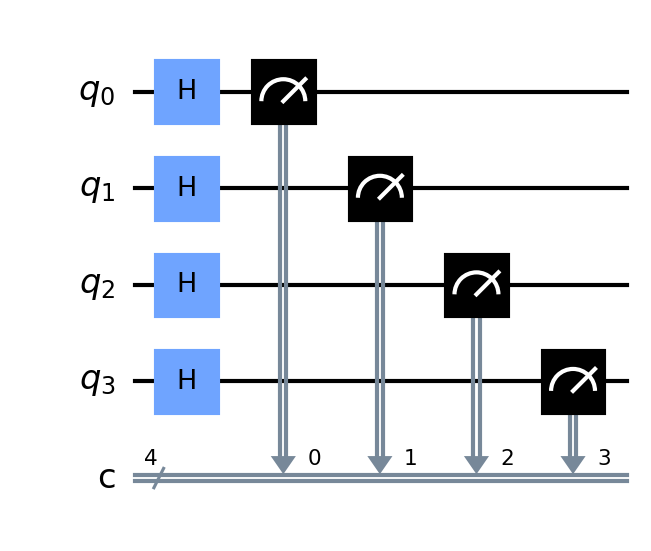
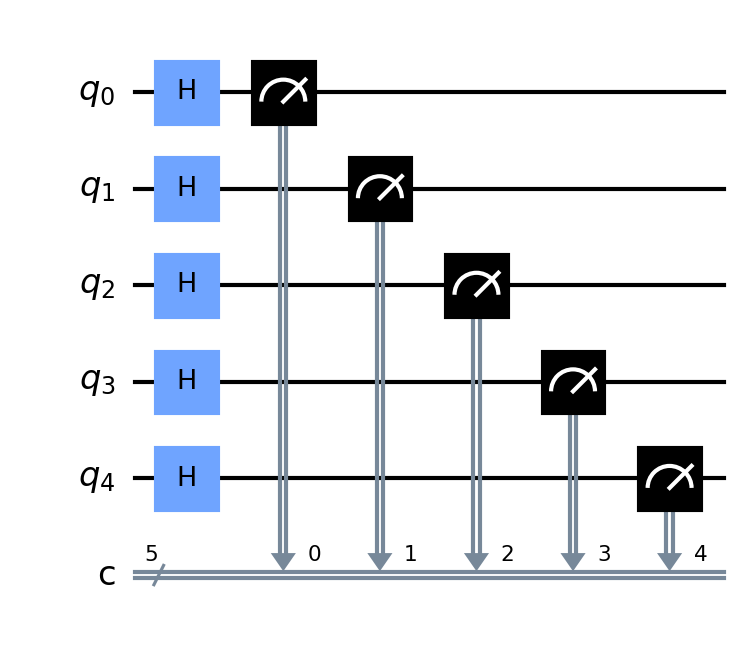
Adding circuit img

Changed region(s): [[0.0922, 0.0926, 0.9831, 0.9256], [0.0922, 0.2777, 0.1843, 0.3702], [0.0922, 0.4319, 0.1536, 0.4628]]

diff --git a/circuit_output/Shor_circuit_tex.tex b/circuit_output/Shor_circuit_tex.tex
@@ -1,0 +1,28 @@
+\documentclass[border=2px]{standalone}
+        
+\usepackage[braket, qm]{qcircuit}
+\usepackage{graphicx}
+
+\begin{document} 
+\scalebox{1.0}{
+\Qcircuit @C=1.0em @R=0.2em @!R { \\
+	 	\nghost{ {up}_{0} :  } & \lstick{ {up}_{0} :  } & \gate{\mathrm{H}} & \multigate{17}{\mathrm{2\string^x\,mod\,15}}_<<<{0} & \multigate{7}{\mathrm{IQFT}}_<<<{0} & \qw & \qw\\ 
+	 	\nghost{ {up}_{1} :  } & \lstick{ {up}_{1} :  } & \gate{\mathrm{H}} & \ghost{\mathrm{2\string^x\,mod\,15}}_<<<{1} & \ghost{\mathrm{IQFT}}_<<<{1} & \qw & \qw\\ 
+	 	\nghost{ {up}_{2} :  } & \lstick{ {up}_{2} :  } & \gate{\mathrm{H}} & \ghost{\mathrm{2\string^x\,mod\,15}}_<<<{2} & \ghost{\mathrm{IQFT}}_<<<{2} & \qw & \qw\\ 
+	 	\nghost{ {up}_{3} :  } & \lstick{ {up}_{3} :  } & \gate{\mathrm{H}} & \ghost{\mathrm{2\string^x\,mod\,15}}_<<<{3} & \ghost{\mathrm{IQFT}}_<<<{3} & \qw & \qw\\ 
+	 	\nghost{ {up}_{4} :  } & \lstick{ {up}_{4} :  } & \gate{\mathrm{H}} & \ghost{\mathrm{2\string^x\,mod\,15}}_<<<{4} & \ghost{\mathrm{IQFT}}_<<<{4} & \qw & \qw\\ 
+	 	\nghost{ {up}_{5} :  } & \lstick{ {up}_{5} :  } & \gate{\mathrm{H}} & \ghost{\mathrm{2\string^x\,mod\,15}}_<<<{5} & \ghost{\mathrm{IQFT}}_<<<{5} & \qw & \qw\\ 
+	 	\nghost{ {up}_{6} :  } & \lstick{ {up}_{6} :  } & \gate{\mathrm{H}} & \ghost{\mathrm{2\string^x\,mod\,15}}_<<<{6} & \ghost{\mathrm{IQFT}}_<<<{6} & \qw & \qw\\ 
+	 	\nghost{ {up}_{7} :  } & \lstick{ {up}_{7} :  } & \gate{\mathrm{H}} & \ghost{\mathrm{2\string^x\,mod\,15}}_<<<{7} & \ghost{\mathrm{IQFT}}_<<<{7} & \qw & \qw\\ 
+	 	\nghost{ {down}_{0} :  } & \lstick{ {down}_{0} :  } & \gate{\mathrm{X}} & \ghost{\mathrm{2\string^x\,mod\,15}}_<<<{8} & \qw & \qw & \qw\\ 
+	 	\nghost{ {down}_{1} :  } & \lstick{ {down}_{1} :  } & \qw & \ghost{\mathrm{2\string^x\,mod\,15}}_<<<{9} & \qw & \qw & \qw\\ 
+	 	\nghost{ {down}_{2} :  } & \lstick{ {down}_{2} :  } & \qw & \ghost{\mathrm{2\string^x\,mod\,15}}_<<<<{10} & \qw & \qw & \qw\\ 
+	 	\nghost{ {down}_{3} :  } & \lstick{ {down}_{3} :  } & \qw & \ghost{\mathrm{2\string^x\,mod\,15}}_<<<<{11} & \qw & \qw & \qw\\ 
+	 	\nghost{ {aux}_{0} :  } & \lstick{ {aux}_{0} :  } & \qw & \ghost{\mathrm{2\string^x\,mod\,15}}_<<<<{12} & \qw & \qw & \qw\\ 
+	 	\nghost{ {aux}_{1} :  } & \lstick{ {aux}_{1} :  } & \qw & \ghost{\mathrm{2\string^x\,mod\,15}}_<<<<{13} & \qw & \qw & \qw\\ 
+	 	\nghost{ {aux}_{2} :  } & \lstick{ {aux}_{2} :  } & \qw & \ghost{\mathrm{2\string^x\,mod\,15}}_<<<<{14} & \qw & \qw & \qw\\ 
+	 	\nghost{ {aux}_{3} :  } & \lstick{ {aux}_{3} :  } & \qw & \ghost{\mathrm{2\string^x\,mod\,15}}_<<<<{15} & \qw & \qw & \qw\\ 
+	 	\nghost{ {aux}_{4} :  } & \lstick{ {aux}_{4} :  } & \qw & \ghost{\mathrm{2\string^x\,mod\,15}}_<<<<{16} & \qw & \qw & \qw\\ 
+	 	\nghost{ {aux}_{5} :  } & \lstick{ {aux}_{5} :  } & \qw & \ghost{\mathrm{2\string^x\,mod\,15}}_<<<<{17} & \qw & \qw & \qw\\ 
+\\ }}
+\end{document}

diff --git a/circuit_output/qrng_circuit_tex.tex b/circuit_output/qrng_circuit_tex.tex
@@ -6,10 +6,11 @@
 \begin{document} 
 \scalebox{1.0}{
 \Qcircuit @C=1.0em @R=0.2em @!R { \\
-	 	\nghost{ {q}_{0} :  } & \lstick{ {q}_{0} :  } & \gate{\mathrm{H}} & \meter & \qw & \qw & \qw & \qw & \qw\\ 
-	 	\nghost{ {q}_{1} :  } & \lstick{ {q}_{1} :  } & \gate{\mathrm{H}} & \qw & \meter & \qw & \qw & \qw & \qw\\ 
-	 	\nghost{ {q}_{2} :  } & \lstick{ {q}_{2} :  } & \gate{\mathrm{H}} & \qw & \qw & \meter & \qw & \qw & \qw\\ 
-	 	\nghost{ {q}_{3} :  } & \lstick{ {q}_{3} :  } & \gate{\mathrm{H}} & \qw & \qw & \qw & \meter & \qw & \qw\\ 
-	 	\nghost{c:} & \lstick{c:} & \lstick{/_{_{4}}} \cw & \dstick{_{_{0}}} \cw \cwx[-4] & \dstick{_{_{1}}} \cw \cwx[-3] & \dstick{_{_{2}}} \cw \cwx[-2] & \dstick{_{_{3}}} \cw \cwx[-1] & \cw & \cw\\ 
+	 	\nghost{ {q}_{0} :  } & \lstick{ {q}_{0} :  } & \gate{\mathrm{H}} & \meter & \qw & \qw & \qw & \qw & \qw & \qw\\ 
+	 	\nghost{ {q}_{1} :  } & \lstick{ {q}_{1} :  } & \gate{\mathrm{H}} & \qw & \meter & \qw & \qw & \qw & \qw & \qw\\ 
+	 	\nghost{ {q}_{2} :  } & \lstick{ {q}_{2} :  } & \gate{\mathrm{H}} & \qw & \qw & \meter & \qw & \qw & \qw & \qw\\ 
+	 	\nghost{ {q}_{3} :  } & \lstick{ {q}_{3} :  } & \gate{\mathrm{H}} & \qw & \qw & \qw & \meter & \qw & \qw & \qw\\ 
+	 	\nghost{ {q}_{4} :  } & \lstick{ {q}_{4} :  } & \gate{\mathrm{H}} & \qw & \qw & \qw & \qw & \meter & \qw & \qw\\ 
+	 	\nghost{c:} & \lstick{c:} & \lstick{/_{_{5}}} \cw & \dstick{_{_{0}}} \cw \cwx[-5] & \dstick{_{_{1}}} \cw \cwx[-4] & \dstick{_{_{2}}} \cw \cwx[-3] & \dstick{_{_{3}}} \cw \cwx[-2] & \dstick{_{_{4}}} \cw \cwx[-1] & \cw & \cw\\ 
 \\ }}
 \end{document}
